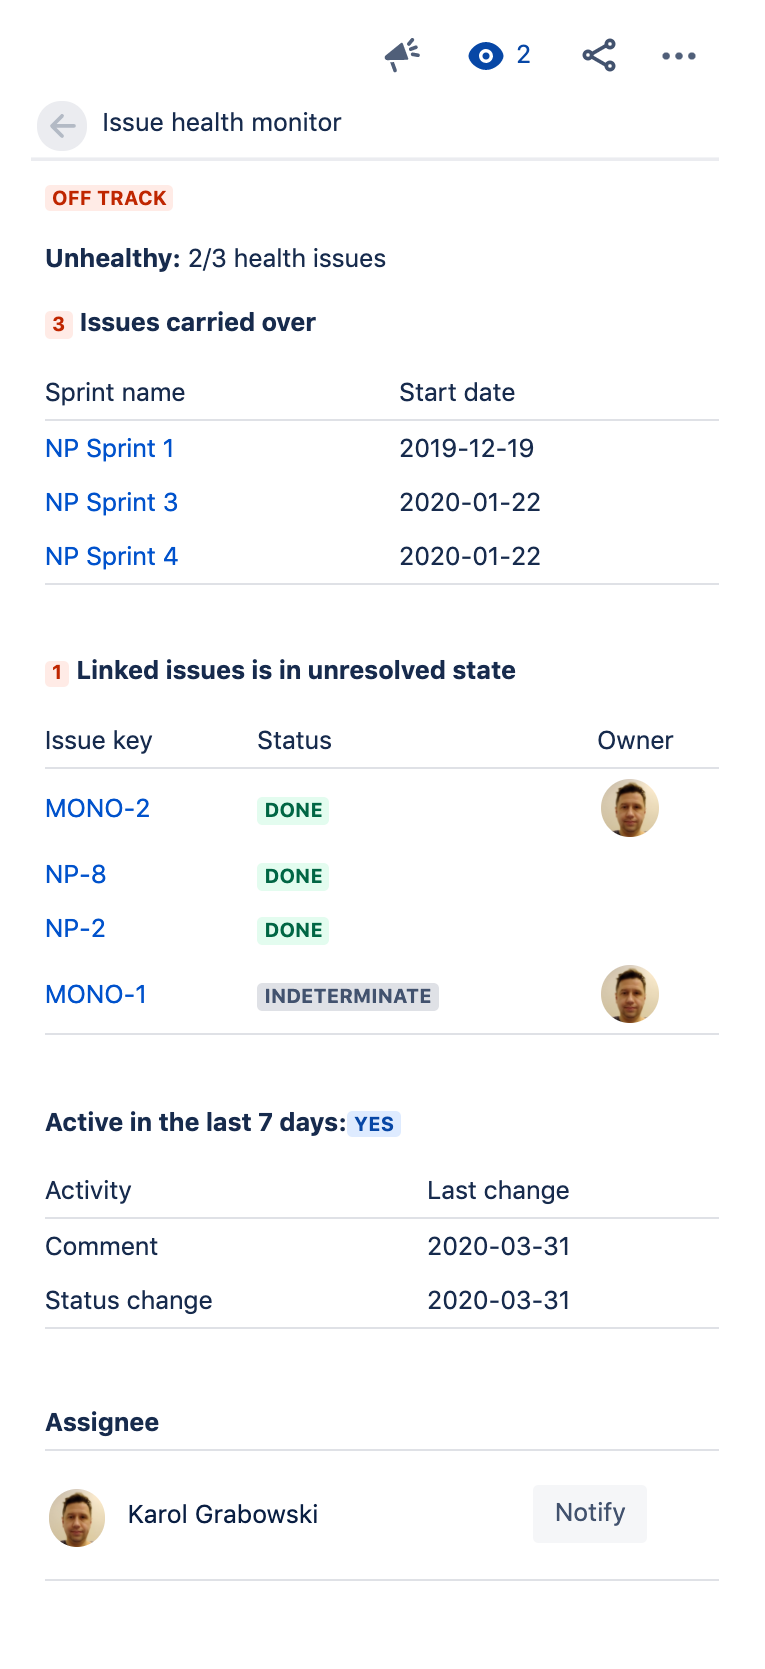
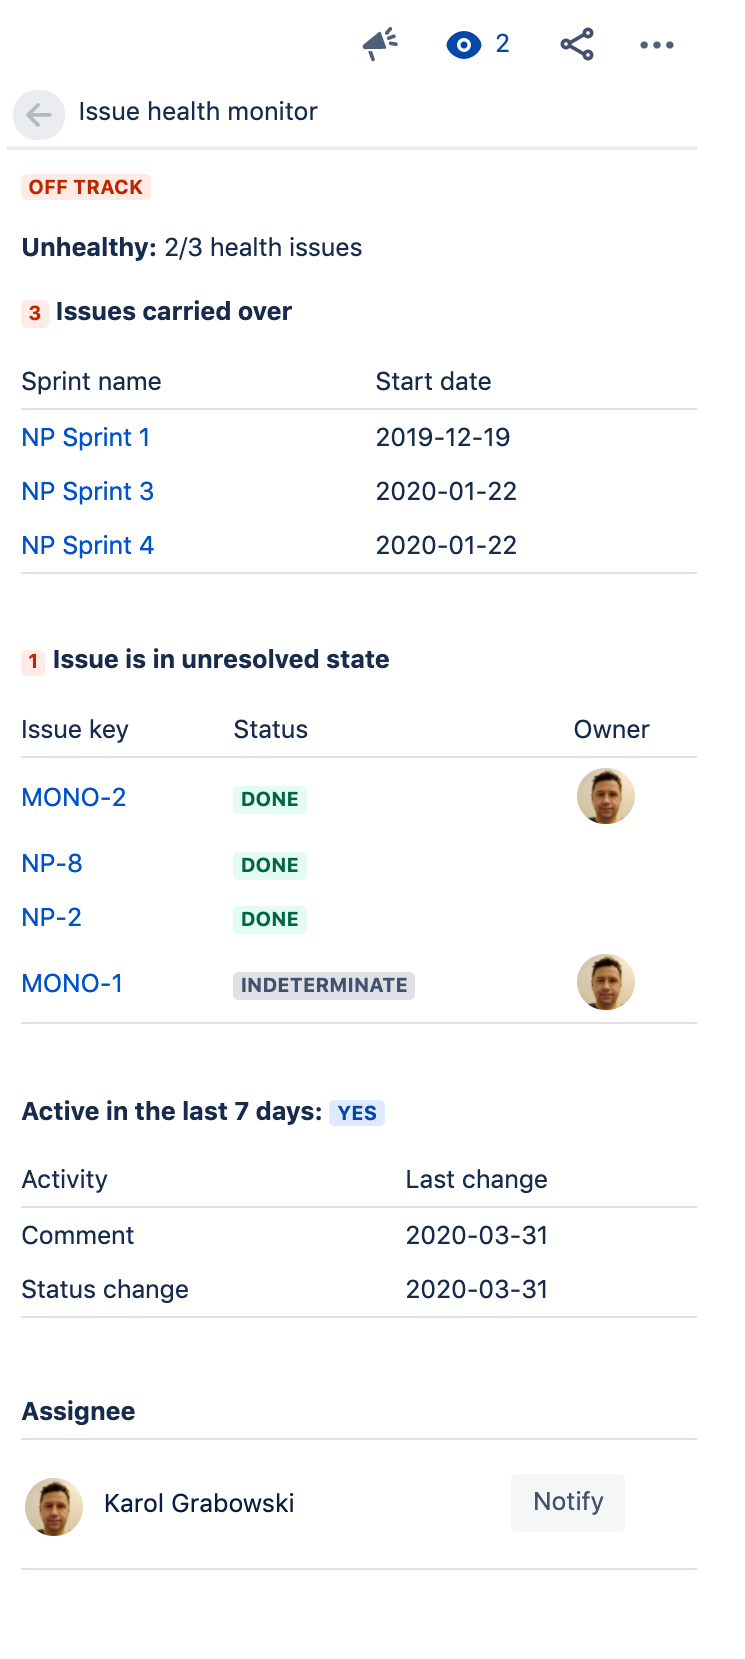
SMT-130: fixed sever data problem and small styling fixes after review

diff --git a/src/index.jsx b/src/index.jsx
@@ -72,6 +72,9 @@ const App = () => {
 
   const numberOfUnresolvedLinks = unresolvedLinks.length;
 
+  const lastCommentUpdateDate =
+  comments.length > 0 && comments[comments.length - 1].updated;
+
   const daysFromLastUpdate = differenceInDays(
     new Date(),
     max([new Date(lastCommentUpdateDate), new Date(statuscategorychangedate)])
@@ -79,9 +82,6 @@ const App = () => {
 
   const isIssueHealthy =
     issueSprintAge < 1 && daysFromLastUpdate < 7 && numberOfUnresolvedLinks < 1;
-
-  const lastCommentUpdateDate =
-    comments.length > 0 && comments[comments.length - 1].updated;
 
   const numberOfUnhealthyParams = [
     issueSprintAge < 1,
@@ -123,9 +123,9 @@ const App = () => {
           text={`${issueSprintAge}`}
           appearance={issueSprintAge > 0 ? "removed" : "inprogress"}
         />{" "}
-        **Issues carried over**
+        {`**Issue${pluralizeString(issueSprintAge)} carried over**`}
       </Text>
-      {sprintCustomField && oldSprints.length > 0 && (
+      {sprintCustomField && oldSprints.length > 0 && serverData && (
         <Table>
           <Head>
             <Cell>
@@ -162,11 +162,11 @@ const App = () => {
           text={`${numberOfUnresolvedLinks}`}
           appearance={numberOfUnresolvedLinks > 0 ? "removed" : "inprogress"}
         />{" "}
-        {`**Linked issues ${
+        {`**Issue${pluralizeString(numberOfUnresolvedLinks)} ${
           numberOfUnresolvedLinks > 1 ? "are" : "is"
-        } in unresolved state**`}
+        } in unresolved status**`}
       </Text>
-      {linkedIssues && linkedIssues.length > 0 && (
+      {linkedIssues && linkedIssues.length > 0 && serverData && (
         <Table>
           <Head>
             <Cell>
@@ -224,9 +224,9 @@ const App = () => {
   const renderActivity = () => (
     <Fragment>
       <Text>
-        **Active in the last 7 days:**
+        **Active in the last 7 days:**{" "}
         <Lozenge
-          text={` ${daysFromLastUpdate >= 7 ? "NO" : "YES"}`}
+          text={`${daysFromLastUpdate >= 7 ? "NO" : "YES"}`}
           appearance={daysFromLastUpdate >= 7 ? "removed" : "inprogress"}
         />
       </Text>
@@ -312,7 +312,6 @@ const App = () => {
       {renderSprint()}
       {renderLinks()}
       {renderActivity()}
-
       {assignee && renderAssignee()}
       {modalIsOpen && renderModal()}
     </Fragment>
